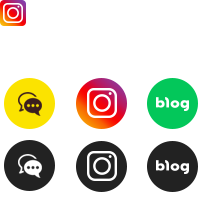
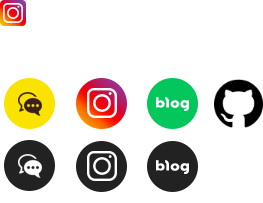
유저 정보 팝업 퍼블리싱 0627

diff --git a/project/src/main/resources/templates/user/profile/info.html b/project/src/main/resources/templates/user/profile/info.html
@@ -8,6 +8,51 @@
 <title>Insert title here</title>
 </head>
 <body>
-	<h1>프로필 정보</h1>
+<div layout:fragment="content">
+	<div class="profile_popup">
+		<h1>프로필 정보</h1>
+		<div class="profile_photo">
+			<div class="img">
+				<img src="/image/sub/story/profile_test.png" alt="이미지가 없습니다.">
+			</div>
+		</div><!-- //profile_photo -->
+		<div class="profile_user">
+			<ul class="profile_user_info">
+				<li><span>닉네임</span> 홍길동</li>
+				<li><span>이메일</span> 주소</li>
+				<li><span>홈페이지</span> 주소</li>
+				<li><span>SNS</span> 
+					<ul class="profile_sns clfix">
+						<li>
+							<a href="javascript:;" title="인스타그램 이동" class="insta"></a>
+						</li>
+						<li>
+							<a href="javascript:;" title="블로그 이동" class="blog"></a>
+						</li>
+						<li>
+							<a href="javascript:;" title="깃허브 이동" class="github"></a>
+						</li>
+					</ul>
+				</li>
+			</ul>
+		</div><!-- //profile_user -->
+		<div class="profile_user_history">
+			<h3>게시글 활동</h3>
+			<ul>
+				<li><a href="javascript:;" title=""><p>게시글 제목게시글 제목게시글 제목게시글 제목게시글 제목게시글 제목게시글 제목게시글 제목</p><span class="date">2021-06-26</span></a> </li>
+				<li><a href="javascript:;" title=""><p>게시글 제목</p><span class="date">2021-06-26</span></a> </li>
+				<li><a href="javascript:;" title=""><p>게시글 제목</p><span class="date">2021-06-26</span></a> </li>
+				<li><a href="javascript:;" title=""><p>게시글 제목</p><span class="date">2021-06-26</span></a> </li>
+			</ul>
+			<h3>댓글 활동</h3>
+			<ul>
+				<li><a href="javascript:;" title=""><p>댓글 내용</p><span class="date">2021-06-26</span></a> </li>
+				<li><a href="javascript:;" title=""><p>댓글 내용</p><span class="date">2021-06-26</span></a> </li>
+				<li><a href="javascript:;" title=""><p>댓글 내용</p><span class="date">2021-06-26</span></a> </li>
+				<li><a href="javascript:;" title=""><p>댓글 내용</p><span class="date">2021-06-26</span></a> </li>
+			</ul>
+		</div><!-- //profile_user_history -->
+	</div>
+</div>
 </body>
 </html>

diff --git a/project/src/main/resources/static/css/style.css b/project/src/main/resources/static/css/style.css
@@ -309,8 +309,28 @@ background-repeat: no-repeat; border:1px solid #ececec;vertical-align: top;font-
 .profile_past .radio_box{margin:5px 0 0 0;}
 
 
+.profile_popup{padding:10px;}
+.profile_popup h1{padding:0 0 10px 0;font-size:22px;}
+.profile_photo{padding:10px 0;}
+.profile_photo .img{margin:0 auto;width:50px;height:50px;border:1px solid #e3e3e3;border-radius: 50%;overflow: hidden;}
+.profile_photo .img img{width:100%;}
 
+.profile_user{padding: 10px 0;border-top:1px solid #e3e3e3;border-bottom:1px solid #e3e3e3; }
+.profile_user li{margin:0 0 5px 0;font-size:12px;}
+.profile_user .profile_sns {margin:10px 0 0 0}
+.profile_user li span{display:inline-block; width:80px;color:#777;}
+.profile_user .profile_sns li{float:left;margin:0 10px 0 0;}
+.profile_user .profile_sns li a{display:block; width:45px;height:45px; background:url('../image/common/sns_icon.png')no-repeat 0 0 #f9f9f9;border-radius: 50%;}
+.profile_user .profile_sns .insta{background:url('../image/common/sns_icon.png')no-repeat -79px -81px;}
+.profile_user .profile_sns .blog{background:url('../image/common/sns_icon.png')no-repeat -150px -81px;}
+.profile_user .profile_sns .github{background:url('../image/common/sns_icon.png')no-repeat -216px -84px}
 
+.profile_user_history {margin-top:10px;}
+.profile_user_history h3{margin-top:10px;padding:0 0 10px 0;font-size:15px;}
+.profile_user_history ul{border-top:1px solid #e3e3e3;}
+.profile_user_history li a{font-size:12px;color:#444;}
+.profile_user_history li a p{display:inline-block;margin-right:10px;width:calc(100% - 80px);overflow:hidden;text-overflow:ellipsis;white-space:nowrap;vertical-align: middle;}
+.profile_user_history .date{color:#777;vertical-align: middle;}
 
 /* 미디어쿼리 */
 @media all and (max-width:1200px){
